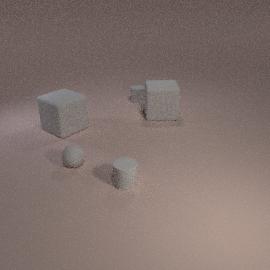
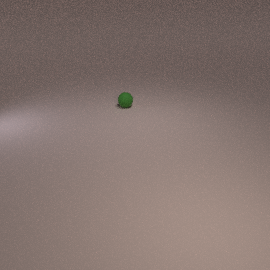
shadow node masks

diff --git a/data/render_images.py b/data/render_images.py
@@ -608,7 +608,7 @@ def render_shadeless(blender_objects, path='flat.png'):
     b_channel = float(i) / num_objects
     obj_color = (r, g, b_channel, 1.0)
 
-    diffuse = material.node_tree.nodes.new('ShaderNodeBsdfDiffuse')
+    #diffuse = material.node_tree.nodes.new('ShaderNodeBsdfDiffuse')
 
     # mat.node_tree.nodes.remove(mat.node_tree.nodes.get('Diffuse BSDF'))
     material_output = mat.node_tree.nodes.get('Material Output')
@@ -620,7 +620,7 @@ def render_shadeless(blender_objects, path='flat.png'):
 
     # link diffuse shader to material
     # material.node_tree.links.new(material_output.inputs[0], diffuse.outputs[0])
-    material.node_tree.links.new(material_output.inputs[0], emission.outputs[0])
+    mat.node_tree.links.new(material_output.inputs[0], emission.outputs[0])
 
     # set activer material to your new material
     bpy.context.object.active_material = mat

diff --git a/models/move_model.py b/models/move_model.py
@@ -265,7 +265,7 @@ class MoveModel(BaseModel):
         self.forward()
 
         # train discriminator
-        if overall_batch % 2 == 0:
+        if overall_batch % 3 == 0:
             # print("Training D")
             self.optimizer_D.zero_grad()
             self.backward_D()
